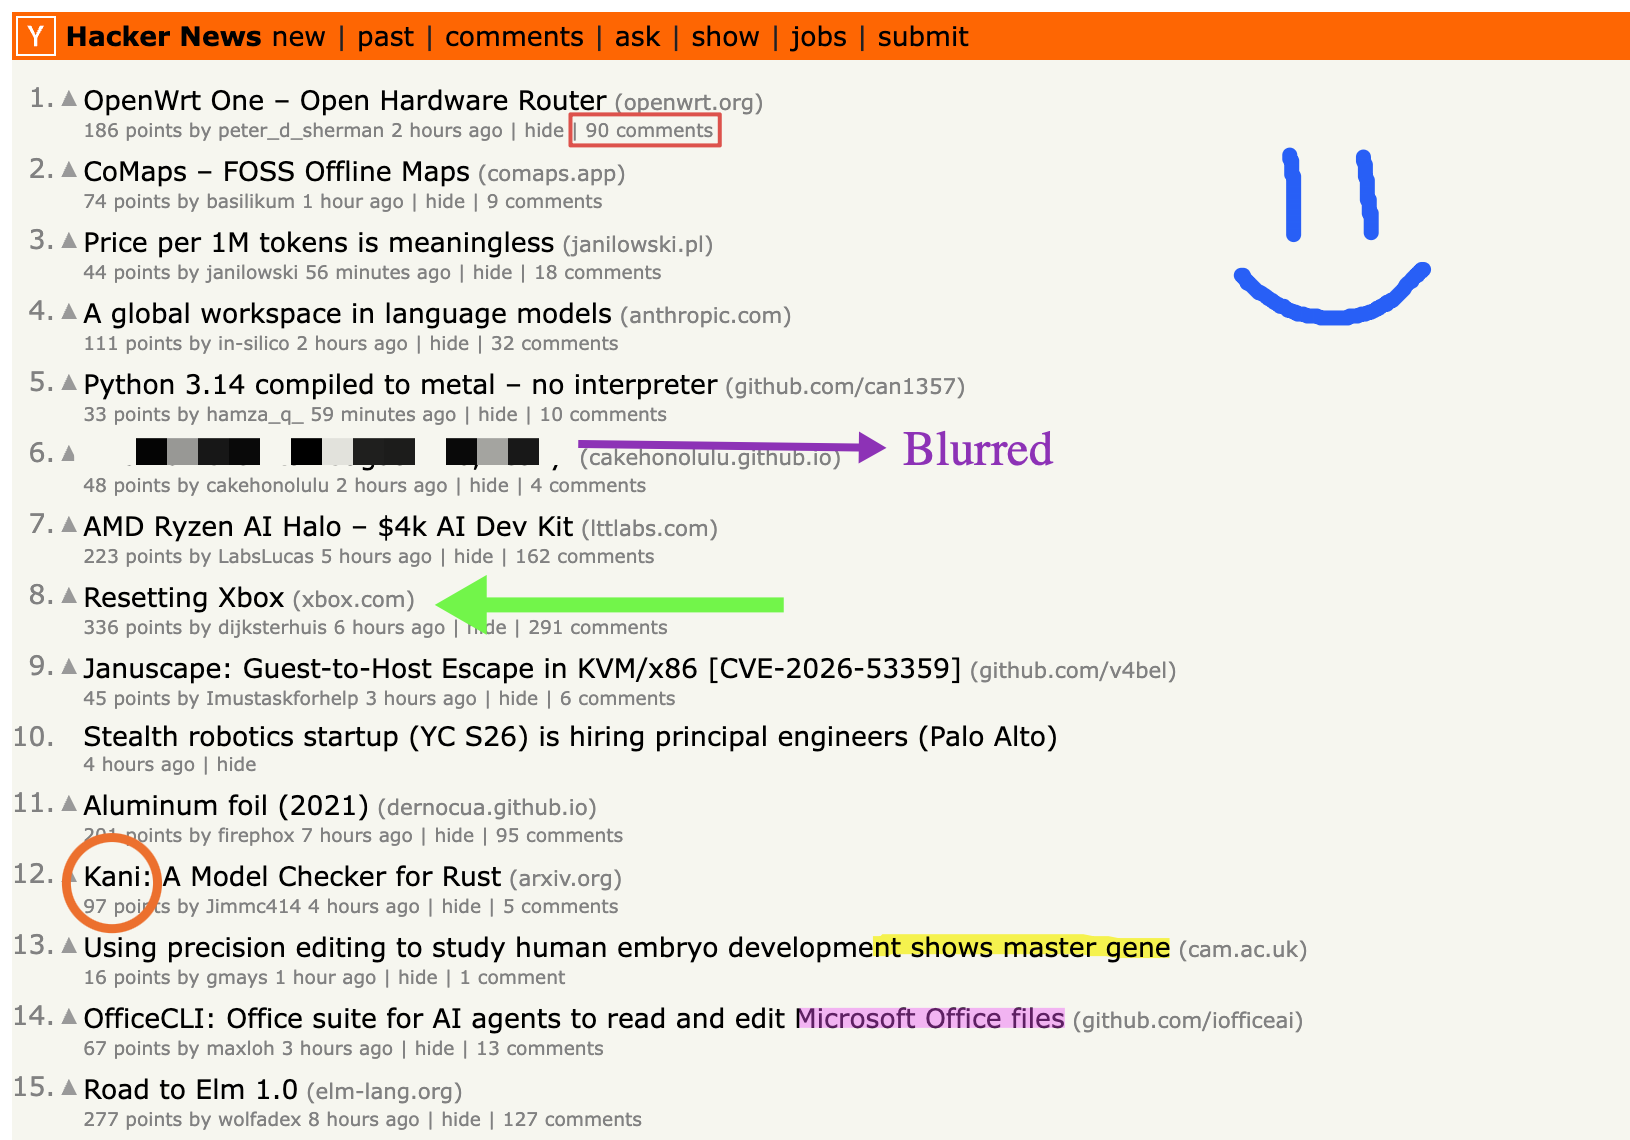
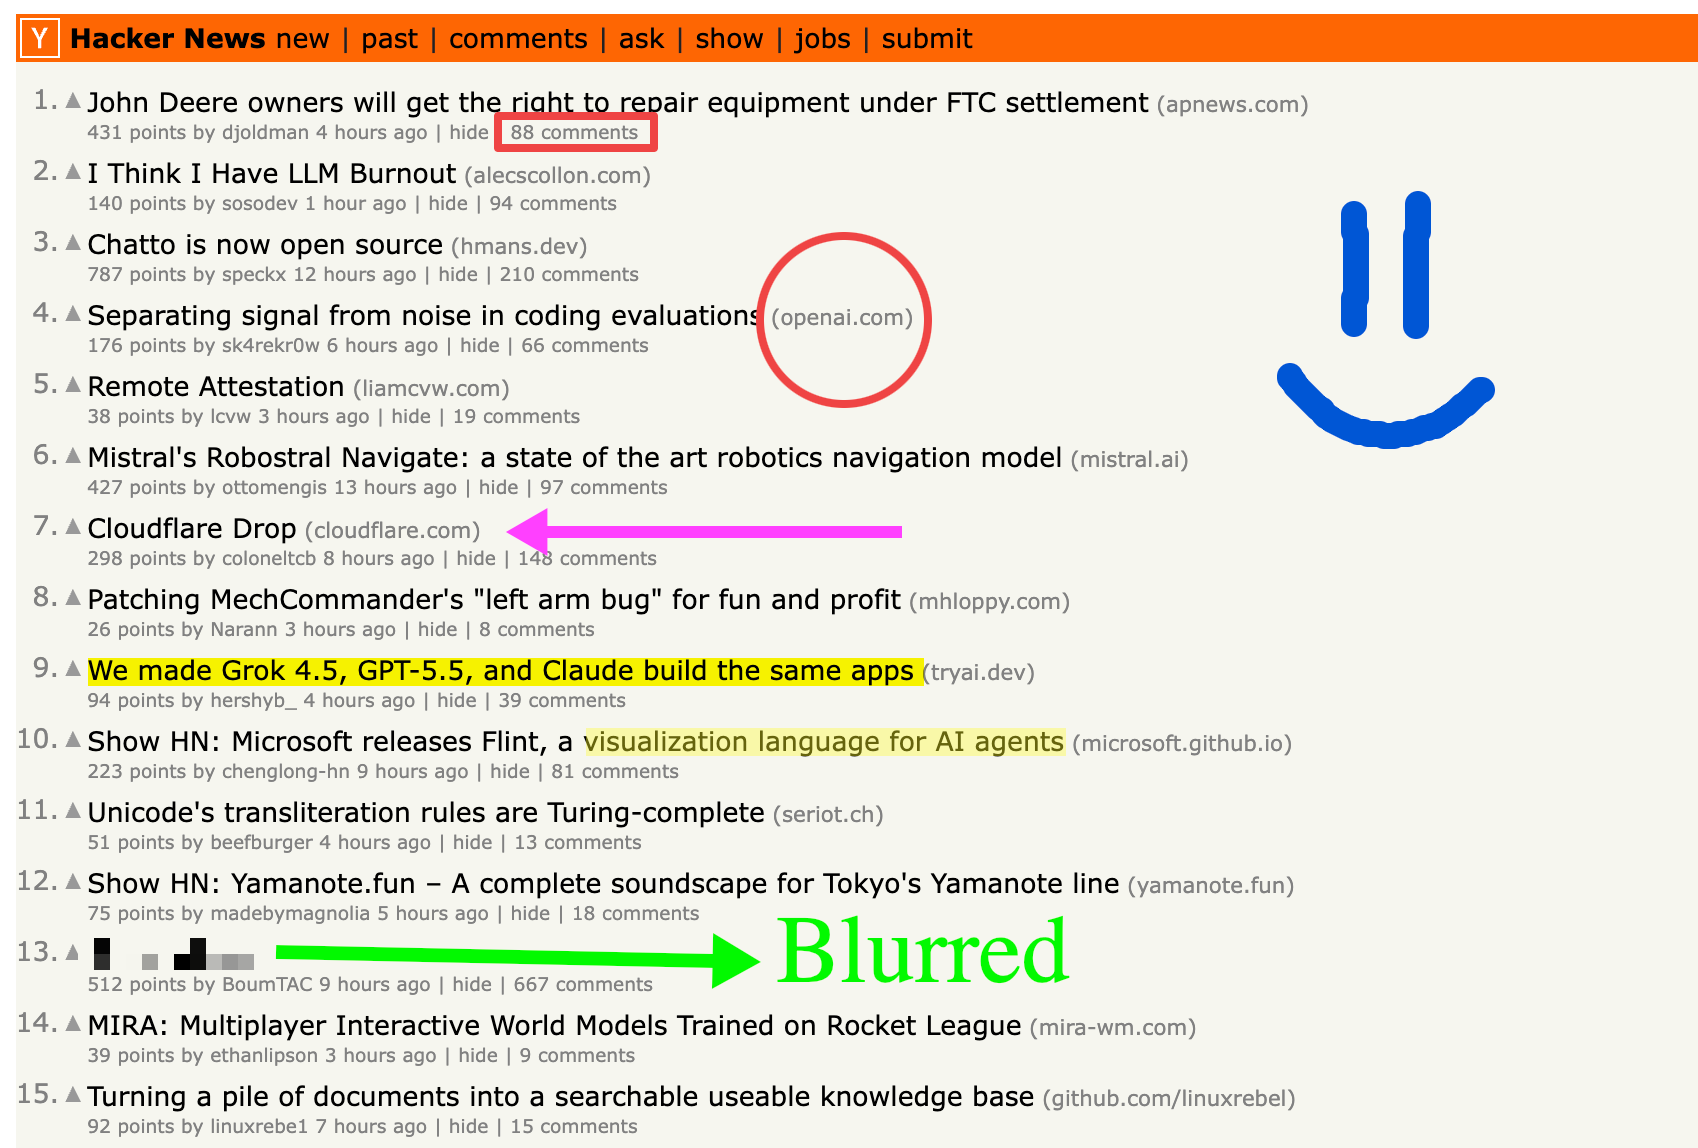
docs(readme): update readme with new images

diff --git a/README.md b/README.md
@@ -22,10 +22,9 @@ Specture is a modern screenshot utility designed to be lightweight, incredibly f
 
 | Feature / Menu | Screenshot |
 | :--- | :--- |
-| **Control Panel**<br>The minimalist area selector for choosing your capture mode. | <a href="docs/assets/control_panel.png" target="_blank"><img src="docs/assets/control_panel.png" width="500" alt="Control Panel"></a> |
-| **Scrolling Capture (Selection)**<br>Selecting the region before the auto-scroll begins. | <a href="docs/assets/scrolling_capture_selection.png" target="_blank"><img src="docs/assets/scrolling_capture_selection.png" width="500" alt="Scrolling Capture Selection"></a> |
+| **Capture Menu**<br>The minimalist area selector for choosing your capture mode. | <a href="docs/assets/capture_menu.png" target="_blank"><img src="docs/assets/capture_menu.png" width="500" alt="Capture Menu"></a> |
 | **Scrolling Capture (Result)**<br>A long, seamlessly stitched webpage. <br><br>*(Click to view full 5000+ px size)* | <a href="docs/assets/scrolling_capture_output.png" target="_blank"><img src="docs/assets/scrolling_capture_output.png" height="300" style="object-fit: cover; object-position: top; border-radius: 8px; border: 1px solid #333;" alt="Scrolling Capture Output (Click to Expand)"></a> |
-| **In-Place Editor**<br>Instantly annotate with arrows, blur, text, highlighters, and freehand drawing using the floating toolbar directly on your screen. | <a href="docs/assets/specture_editor.png" target="_blank"><img src="docs/assets/specture_editor.png" width="500" alt="Editor Screenshot"></a> |
+| **In-Place Editor**<br>Instantly annotate with arrows, blur, text, highlighters, and freehand drawing using the floating toolbar directly on your screen. | <a href="docs/assets/specture_in_place_editor.png" target="_blank"><img src="docs/assets/specture_in_place_editor.png" width="500" alt="In-Place Editor"></a> |
 | **Final Result**<br>the high-quality output after saving from the editor. | <a href="docs/assets/specture_screenshot.png" target="_blank"><img src="docs/assets/specture_screenshot.png" width="500" alt="Output Screenshot"></a> |
 
 ---